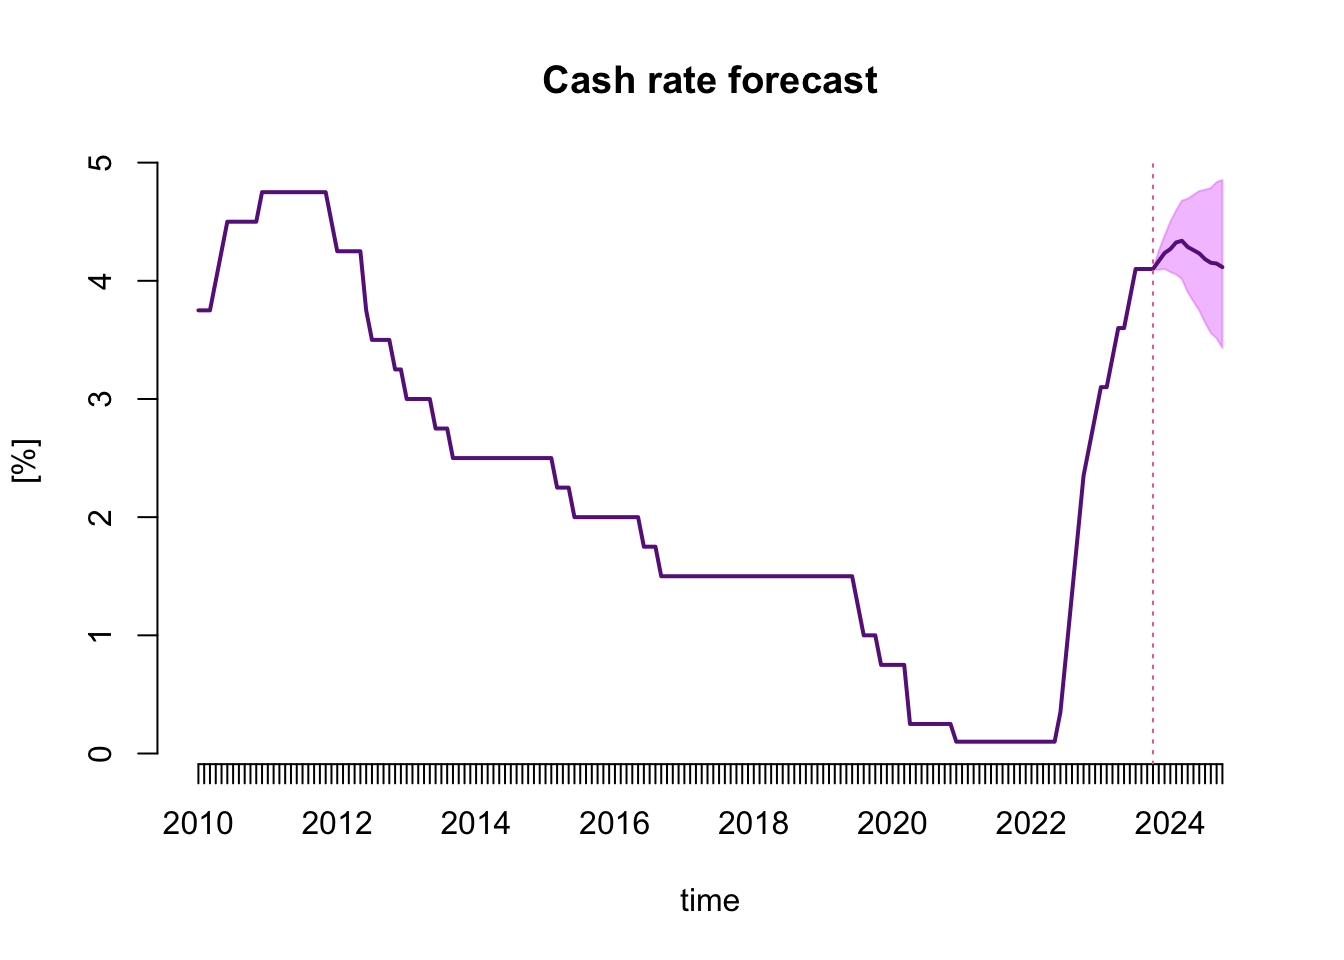
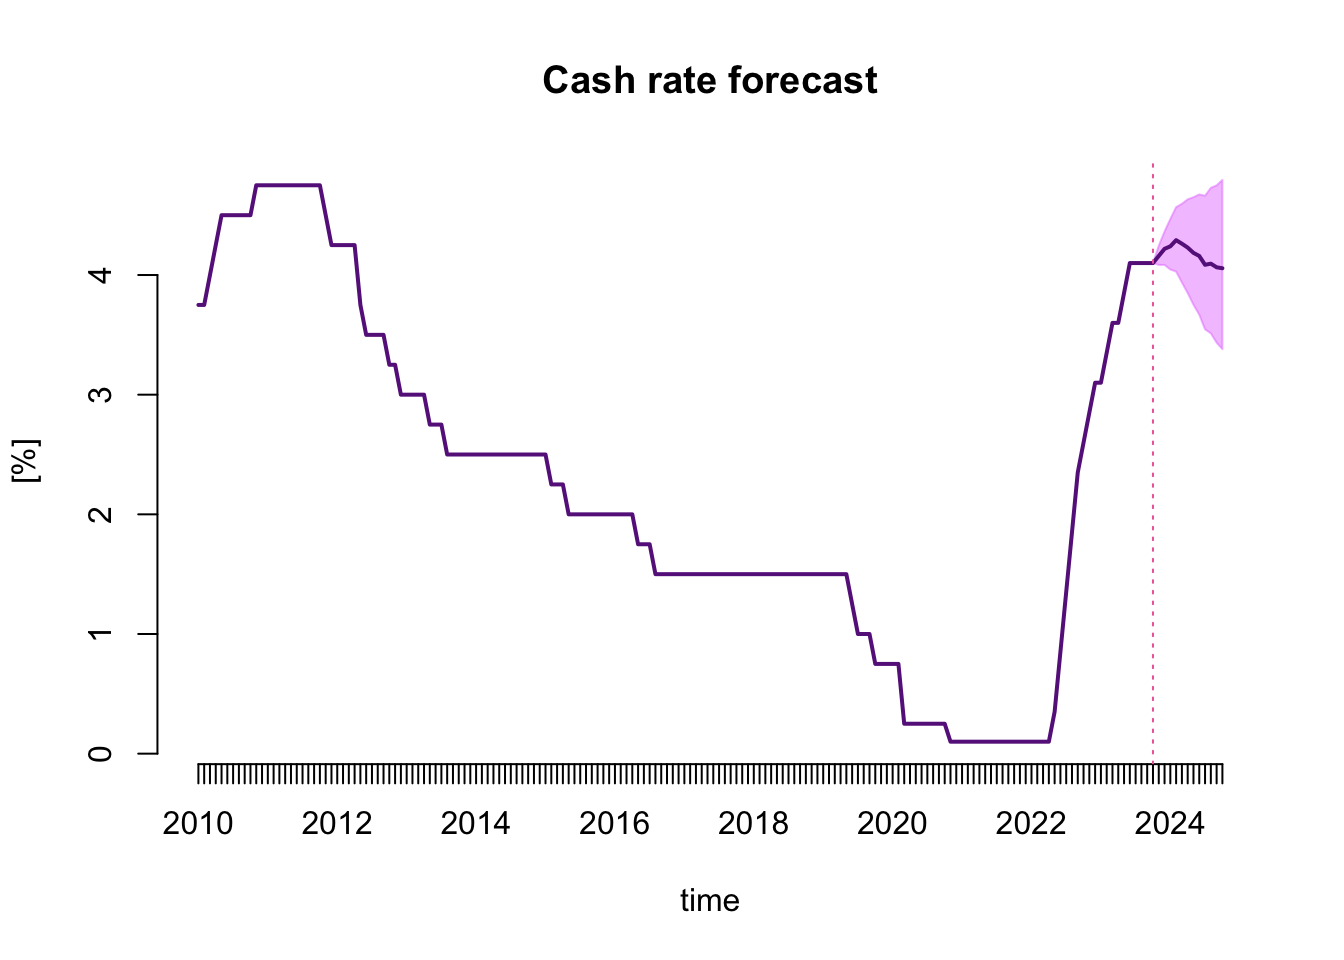
Included the HOLD row

diff --git a/docs/2023_10.html b/docs/2023_10.html
@@ -316,75 +316,75 @@ ul.task-list li input[type="checkbox"] {
 <tbody>
 <tr class="odd">
 <td style="text-align: left;">Nov 2023</td>
-<td style="text-align: right;">4.17</td>
-<td style="text-align: right;">4.09</td>
+<td style="text-align: right;">4.16</td>
+<td style="text-align: right;">4.08</td>
 <td style="text-align: right;">4.25</td>
 </tr>
 <tr class="even">
 <td style="text-align: left;">Dec 2023</td>
-<td style="text-align: right;">4.23</td>
-<td style="text-align: right;">4.10</td>
-<td style="text-align: right;">4.38</td>
+<td style="text-align: right;">4.22</td>
+<td style="text-align: right;">4.08</td>
+<td style="text-align: right;">4.36</td>
 </tr>
 <tr class="odd">
 <td style="text-align: left;">Jan 2024</td>
-<td style="text-align: right;">4.27</td>
-<td style="text-align: right;">4.07</td>
-<td style="text-align: right;">4.50</td>
+<td style="text-align: right;">4.24</td>
+<td style="text-align: right;">4.05</td>
+<td style="text-align: right;">4.47</td>
 </tr>
 <tr class="even">
 <td style="text-align: left;">Feb 2024</td>
-<td style="text-align: right;">4.32</td>
-<td style="text-align: right;">4.05</td>
-<td style="text-align: right;">4.60</td>
+<td style="text-align: right;">4.29</td>
+<td style="text-align: right;">4.03</td>
+<td style="text-align: right;">4.57</td>
 </tr>
 <tr class="odd">
 <td style="text-align: left;">Mar 2024</td>
-<td style="text-align: right;">4.34</td>
-<td style="text-align: right;">4.02</td>
-<td style="text-align: right;">4.68</td>
+<td style="text-align: right;">4.26</td>
+<td style="text-align: right;">3.94</td>
+<td style="text-align: right;">4.60</td>
 </tr>
 <tr class="even">
 <td style="text-align: left;">Apr 2024</td>
-<td style="text-align: right;">4.29</td>
-<td style="text-align: right;">3.90</td>
-<td style="text-align: right;">4.69</td>
+<td style="text-align: right;">4.23</td>
+<td style="text-align: right;">3.85</td>
+<td style="text-align: right;">4.63</td>
 </tr>
 <tr class="odd">
 <td style="text-align: left;">May 2024</td>
-<td style="text-align: right;">4.26</td>
-<td style="text-align: right;">3.83</td>
-<td style="text-align: right;">4.73</td>
+<td style="text-align: right;">4.19</td>
+<td style="text-align: right;">3.75</td>
+<td style="text-align: right;">4.65</td>
 </tr>
 <tr class="even">
 <td style="text-align: left;">Jun 2024</td>
-<td style="text-align: right;">4.23</td>
-<td style="text-align: right;">3.75</td>
-<td style="text-align: right;">4.76</td>
+<td style="text-align: right;">4.16</td>
+<td style="text-align: right;">3.67</td>
+<td style="text-align: right;">4.67</td>
 </tr>
 <tr class="odd">
 <td style="text-align: left;">Jul 2024</td>
-<td style="text-align: right;">4.18</td>
-<td style="text-align: right;">3.65</td>
-<td style="text-align: right;">4.77</td>
+<td style="text-align: right;">4.09</td>
+<td style="text-align: right;">3.55</td>
+<td style="text-align: right;">4.66</td>
 </tr>
 <tr class="even">
 <td style="text-align: left;">Aug 2024</td>
-<td style="text-align: right;">4.15</td>
-<td style="text-align: right;">3.56</td>
-<td style="text-align: right;">4.78</td>
+<td style="text-align: right;">4.09</td>
+<td style="text-align: right;">3.51</td>
+<td style="text-align: right;">4.73</td>
 </tr>
 <tr class="odd">
 <td style="text-align: left;">Sep 2024</td>
-<td style="text-align: right;">4.15</td>
-<td style="text-align: right;">3.51</td>
-<td style="text-align: right;">4.84</td>
+<td style="text-align: right;">4.06</td>
+<td style="text-align: right;">3.43</td>
+<td style="text-align: right;">4.75</td>
 </tr>
 <tr class="even">
 <td style="text-align: left;">Oct 2024</td>
-<td style="text-align: right;">4.12</td>
-<td style="text-align: right;">3.43</td>
-<td style="text-align: right;">4.85</td>
+<td style="text-align: right;">4.06</td>
+<td style="text-align: right;">3.38</td>
+<td style="text-align: right;">4.79</td>
 </tr>
 </tbody>
 </table>
@@ -436,6 +436,18 @@ ul.task-list li input[type="checkbox"] {
 <td></td>
 </tr>
 <tr class="even">
+<td>Hold</td>
+<td>✓</td>
+<td>✓</td>
+<td></td>
+<td></td>
+<td></td>
+<td></td>
+<td></td>
+<td></td>
+<td></td>
+</tr>
+<tr class="odd">
 <td>Decrease</td>
 <td></td>
 <td></td>

diff --git a/docs/answers/2022-10.html b/docs/answers/2022-10.html
@@ -7,7 +7,7 @@
 <meta name="viewport" content="width=device-width, initial-scale=1.0, user-scalable=yes">
 
 
-<title>Forecasting cash rate – quarto-input6d7b2fa1</title>
+<title>Forecasting cash rate – quarto-input19d8adbb</title>
 <style>
 code{white-space: pre-wrap;}
 span.smallcaps{font-variant: small-caps;}

diff --git a/docs/answers/2022-11.html b/docs/answers/2022-11.html
@@ -7,7 +7,7 @@
 <meta name="viewport" content="width=device-width, initial-scale=1.0, user-scalable=yes">
 
 
-<title>Forecasting cash rate – quarto-inputf186bb5d</title>
+<title>Forecasting cash rate – quarto-inputb15beed1</title>
 <style>
 code{white-space: pre-wrap;}
 span.smallcaps{font-variant: small-caps;}

diff --git a/docs/answers/2023-01.html b/docs/answers/2023-01.html
@@ -7,7 +7,7 @@
 <meta name="viewport" content="width=device-width, initial-scale=1.0, user-scalable=yes">
 
 
-<title>Forecasting cash rate – quarto-input71289b6a</title>
+<title>Forecasting cash rate – quarto-input935f0202</title>
 <style>
 code{white-space: pre-wrap;}
 span.smallcaps{font-variant: small-caps;}

diff --git a/docs/answers/2023-02.html b/docs/answers/2023-02.html
@@ -7,7 +7,7 @@
 <meta name="viewport" content="width=device-width, initial-scale=1.0, user-scalable=yes">
 
 
-<title>Forecasting cash rate – quarto-input4e543ff6</title>
+<title>Forecasting cash rate – quarto-input7fe750ec</title>
 <style>
 code{white-space: pre-wrap;}
 span.smallcaps{font-variant: small-caps;}

diff --git a/docs/answers/2023-03.html b/docs/answers/2023-03.html
@@ -7,7 +7,7 @@
 <meta name="viewport" content="width=device-width, initial-scale=1.0, user-scalable=yes">
 
 
-<title>Forecasting cash rate – quarto-input32d0ff59</title>
+<title>Forecasting cash rate – quarto-input88503b8e</title>
 <style>
 code{white-space: pre-wrap;}
 span.smallcaps{font-variant: small-caps;}

diff --git a/docs/answers/2023-04.html b/docs/answers/2023-04.html
@@ -7,7 +7,7 @@
 <meta name="viewport" content="width=device-width, initial-scale=1.0, user-scalable=yes">
 
 
-<title>Forecasting cash rate – quarto-input0566adb3</title>
+<title>Forecasting cash rate – quarto-inputa4a9de5d</title>
 <style>
 code{white-space: pre-wrap;}
 span.smallcaps{font-variant: small-caps;}

diff --git a/docs/answers/2023-05.html b/docs/answers/2023-05.html
@@ -7,7 +7,7 @@
 <meta name="viewport" content="width=device-width, initial-scale=1.0, user-scalable=yes">
 
 
-<title>Forecasting cash rate – quarto-inputcbe46929</title>
+<title>Forecasting cash rate – quarto-input5f75db76</title>
 <style>
 code{white-space: pre-wrap;}
 span.smallcaps{font-variant: small-caps;}

diff --git a/docs/answers/2023-06.html b/docs/answers/2023-06.html
@@ -7,7 +7,7 @@
 <meta name="viewport" content="width=device-width, initial-scale=1.0, user-scalable=yes">
 
 
-<title>Forecasting cash rate – quarto-inputfa221959</title>
+<title>Forecasting cash rate – quarto-inputbb3e5757</title>
 <style>
 code{white-space: pre-wrap;}
 span.smallcaps{font-variant: small-caps;}

diff --git a/docs/answers/2023-07.html b/docs/answers/2023-07.html
@@ -7,7 +7,7 @@
 <meta name="viewport" content="width=device-width, initial-scale=1.0, user-scalable=yes">
 
 
-<title>Forecasting cash rate – quarto-input9ab4fcff</title>
+<title>Forecasting cash rate – quarto-input9061bd33</title>
 <style>
 code{white-space: pre-wrap;}
 span.smallcaps{font-variant: small-caps;}

diff --git a/docs/answers/2023-08.html b/docs/answers/2023-08.html
@@ -7,7 +7,7 @@
 <meta name="viewport" content="width=device-width, initial-scale=1.0, user-scalable=yes">
 
 
-<title>Forecasting cash rate – quarto-inputd4a3cb46</title>
+<title>Forecasting cash rate – quarto-input4b276825</title>
 <style>
 code{white-space: pre-wrap;}
 span.smallcaps{font-variant: small-caps;}

diff --git a/docs/answers/2023-09.html b/docs/answers/2023-09.html
@@ -7,7 +7,7 @@
 <meta name="viewport" content="width=device-width, initial-scale=1.0, user-scalable=yes">
 
 
-<title>Forecasting cash rate – quarto-input7f73bba8</title>
+<title>Forecasting cash rate – quarto-input41cc08dc</title>
 <style>
 code{white-space: pre-wrap;}
 span.smallcaps{font-variant: small-caps;}
